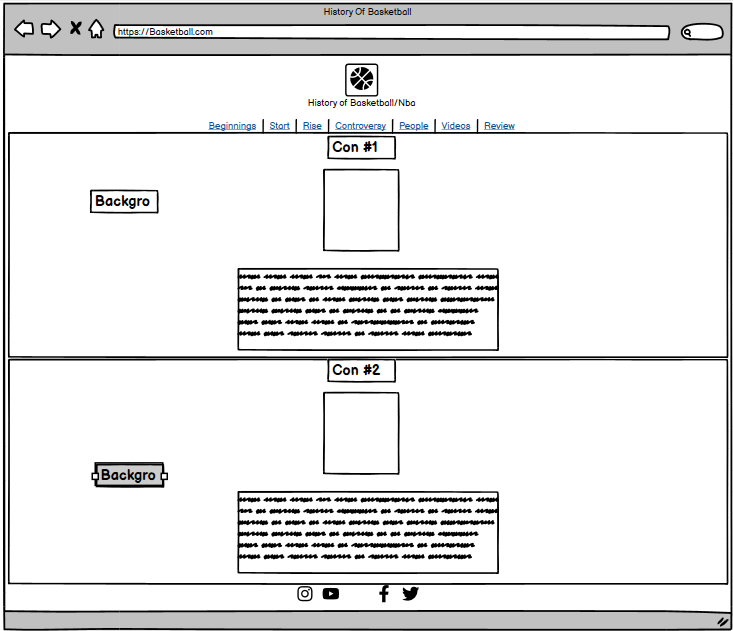
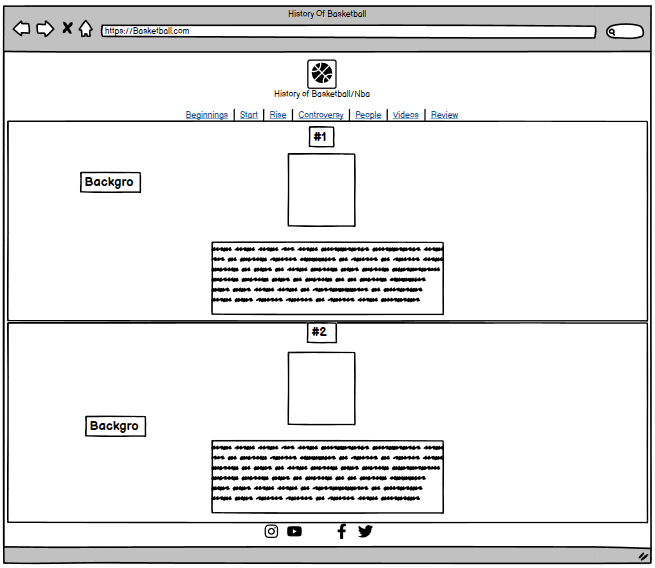
Added mobile page and video wireframes

Changed region(s): [[0.0, 0.0, 1.0, 1.0], [0.1221, 0.7183, 0.2443, 0.7782], [0.1221, 0.2993, 0.2137, 0.3592]]

diff --git a/README.md b/README.md
@@ -124,9 +124,26 @@ This section goes over the different parts of this project. An explaination will
 
 ![First page](assets/images/page1.png)
 
-#### Controversey page
+#### Controversey/people page
 
 ![Controversy page](assets/images/page2.png)
+
+#### Video Page
+
+![Video page](assets/images/video.png)
+
+#### Mobile introduction page
+
+![Mobile First page](assets/images/mobilepage1.png)
+
+
+#### Mobile controversy/people page
+
+![Mobile Controversy page](assets/images/mobilepage2.png)
+
+#### Mobile Video page
+
+![Mobile Video page](assets/images/mobilevideo.png)
 
 ## Testing
 
